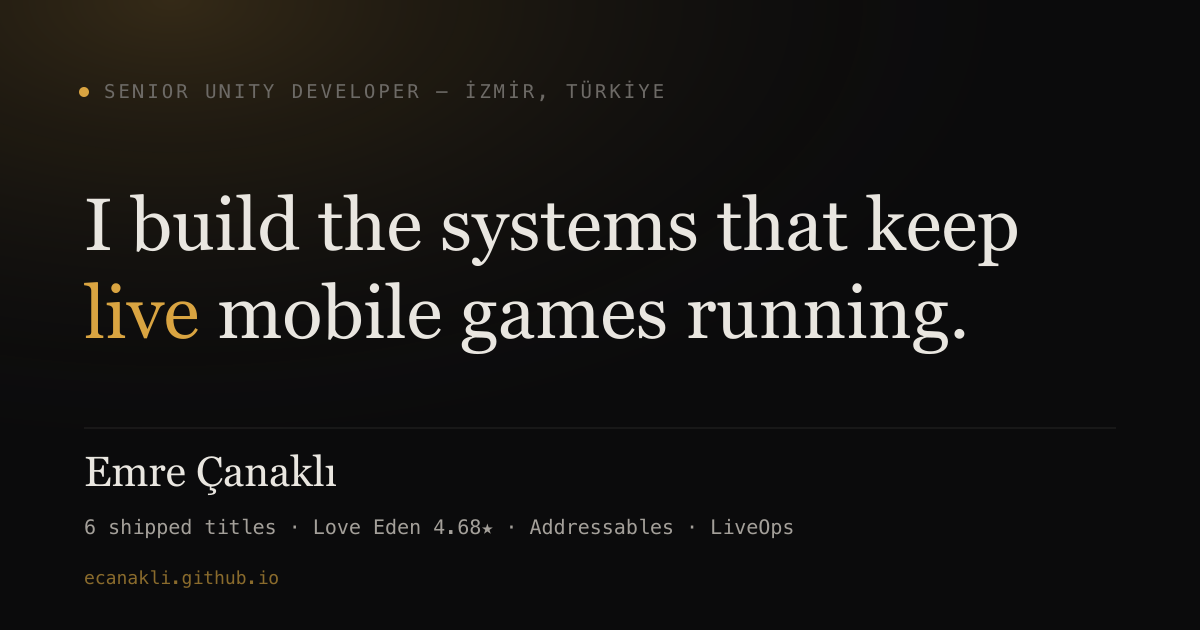
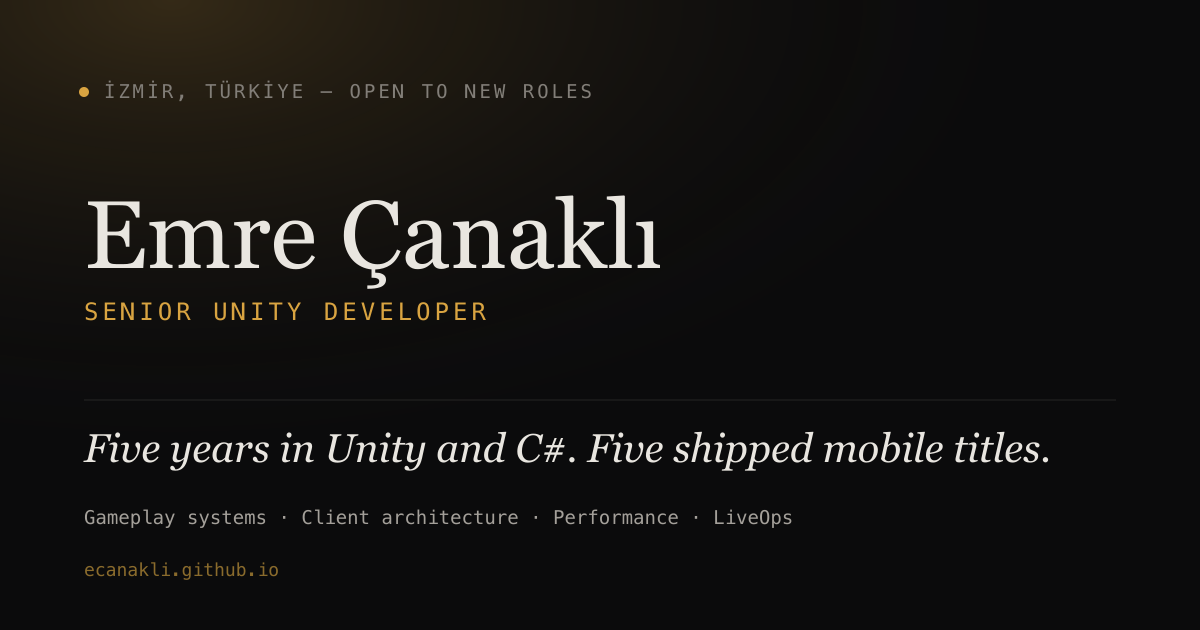
Rewrite the hero, regroup the stack and rebuild the gallery
The hero led with a claim about live-game plumbing, which is the wrong
opening for a portfolio: a reader wants to know who this is and what they
have shipped. Name, role and title count now come first, and the bio reads
the way a developer describes their own work rather than a pitch.

Screenshots wrap into a full-width gallery with every shot visible, so the
set reads as a set without a caption explaining that it can be clicked. A
zoom affordance appears on hover; the "8 screenshots, click to enlarge"
label is gone. Narrow screens keep a snap-scrolling strip.

The stack was one flat wall of chips that buried the optimization work.
It is now grouped, and Performance & Optimization is the largest group:
profiling, draw call and batch reduction, GC, pooling, IL2CPP, build size
and low-end Android tuning.

Shipped-title count drops to five, and the United Tech entry closes at 2026.

diff --git a/src/styles/global.css b/src/styles/global.css
@@ -222,18 +222,28 @@ ul {
   box-shadow: 0 0 0 4px rgba(217, 164, 65, 0.16);
 }
 
-.hero-claim {
+.hero-name {
   font-family: var(--font-display);
   font-weight: 300;
-  font-size: clamp(2.5rem, 6.6vw, 4.8rem);
-  line-height: 1.1;
-  max-width: 19ch;
-  margin-bottom: 1.75rem;
+  font-size: clamp(3rem, 8vw, 5.6rem);
+  line-height: 1;
 }
 
-.hero-claim em {
+.hero-role {
+  font-family: var(--font-mono);
+  font-size: clamp(0.85rem, 1.5vw, 1rem);
+  letter-spacing: 0.14em;
+  text-transform: uppercase;
+  color: var(--accent);
+  margin-top: 1rem;
+}
+
+.hero-tagline {
+  font-family: var(--font-display);
   font-style: italic;
-  font-weight: 400;
+  font-size: clamp(1.15rem, 2.2vw, 1.5rem);
+  color: var(--paper);
+  margin: 1.5rem 0 1.25rem;
 }
 
 .hero-actions {
@@ -317,10 +327,14 @@ ul {
 .game {
   background: var(--ink);
   display: grid;
-  grid-template-columns: 84px minmax(0, 1fr) minmax(0, 340px);
-  gap: clamp(1.25rem, 3vw, 2.5rem);
+  grid-template-columns: 84px minmax(0, 1fr);
+  gap: clamp(1.25rem, 3vw, 2rem);
   padding: clamp(1.75rem, 3.5vw, 2.75rem) 0;
   align-items: start;
+}
+
+.game-body {
+  min-width: 0;
 }
 
 .game-icon {
@@ -328,15 +342,6 @@ ul {
   height: 84px;
   border-radius: 19px;
   border: 1px solid var(--line-strong);
-}
-
-.game-icon-fallback {
-  display: grid;
-  place-items: center;
-  background: var(--ink-raised);
-  font-family: var(--font-display);
-  font-size: 1.9rem;
-  color: var(--paper-faint);
 }
 
 .game-head {
@@ -422,8 +427,9 @@ ul {
 
 .game-links {
   display: flex;
-  gap: 1rem;
+  gap: 1.25rem;
   flex-wrap: wrap;
+  align-items: baseline;
   margin-top: 1.35rem;
   font-size: 0.85rem;
 }
@@ -442,51 +448,84 @@ ul {
   color: var(--paper-faint);
 }
 
-/* Screenshot strip */
+/* Screenshot gallery — every shot visible, so the set reads as a set */
 
-.shots {
+.gallery {
+  grid-column: 1 / -1;
   display: flex;
-  gap: 0.5rem;
-  overflow-x: auto;
-  padding-bottom: 0.5rem;
-  scrollbar-width: thin;
-  scrollbar-color: var(--line-strong) transparent;
+  flex-wrap: wrap;
+  gap: 0.55rem;
+  margin-top: 0.5rem;
 }
 
 .shot {
+  position: relative;
   flex: none;
   padding: 0;
-  border: 0;
-  background: none;
+  border: 1px solid var(--line);
+  background: var(--ink-raised);
   cursor: zoom-in;
-  border-radius: 8px;
+  border-radius: 10px;
+  overflow: hidden;
   line-height: 0;
-  transition: transform 0.22s ease, opacity 0.22s ease;
+  transition: transform 0.22s ease, border-color 0.22s ease;
+}
+
+.shot img {
+  height: 186px;
+  width: auto;
+  transition: transform 0.4s ease, filter 0.22s ease;
+}
+
+.shot-zoom {
+  position: absolute;
+  inset: auto 0.4rem 0.4rem auto;
+  width: 26px;
+  height: 26px;
+  display: grid;
+  place-items: center;
+  border-radius: 50%;
+  background: rgba(11, 11, 12, 0.72);
+  border: 1px solid var(--line-strong);
+  color: var(--paper);
+  opacity: 0;
+  transform: translateY(4px);
+  transition: opacity 0.2s ease, transform 0.2s ease;
 }
 
 .shot:hover {
-  transform: translateY(-3px);
+  border-color: var(--accent-dim);
+  transform: translateY(-4px);
 }
 
-.shots:hover .shot:not(:hover) {
-  opacity: 0.55;
+.shot:hover img {
+  transform: scale(1.06);
+  filter: brightness(1.08);
 }
 
-.shots img {
-  height: 208px;
-  width: auto;
-  border-radius: 8px;
-  border: 1px solid var(--line);
-  flex: none;
+.shot:hover .shot-zoom,
+.shot:focus-visible .shot-zoom {
+  opacity: 1;
+  transform: none;
 }
 
-.shots-hint {
-  font-family: var(--font-mono);
-  font-size: 0.68rem;
-  letter-spacing: 0.08em;
-  text-transform: uppercase;
-  color: var(--paper-faint);
-  margin-top: 0.5rem;
+@media (max-width: 640px) {
+  .gallery {
+    flex-wrap: nowrap;
+    overflow-x: auto;
+    scroll-snap-type: x mandatory;
+    padding-bottom: 0.5rem;
+    scrollbar-width: thin;
+    scrollbar-color: var(--line-strong) transparent;
+  }
+
+  .shot {
+    scroll-snap-align: start;
+  }
+
+  .shot img {
+    height: 200px;
+  }
 }
 
 /* ---- Lightbox ------------------------------------------------------- */
@@ -584,16 +623,12 @@ ul {
 
 .stat-inline {
   font-family: var(--font-mono);
-  font-size: 0.78rem;
-  color: var(--paper-dim);
-  margin-top: 0.6rem;
-  display: flex;
-  gap: 1rem;
-  flex-wrap: wrap;
+  font-size: 0.76rem;
+  color: var(--paper-faint);
 }
 
 .stat-inline b {
-  color: var(--accent);
+  color: var(--paper-dim);
   font-weight: 500;
 }
 
@@ -603,19 +638,15 @@ ul {
   }
 }
 
-@media (max-width: 900px) {
+@media (max-width: 640px) {
   .game {
-    grid-template-columns: 64px minmax(0, 1fr);
-  }
-
-  .game-media {
-    grid-column: 1 / -1;
+    grid-template-columns: 56px minmax(0, 1fr);
   }
 
   .game-icon {
-    width: 64px;
-    height: 64px;
-    border-radius: 15px;
+    width: 56px;
+    height: 56px;
+    border-radius: 13px;
   }
 }
 
@@ -703,15 +734,49 @@ ul {
 
 /* ---- Stack ---------------------------------------------------------- */
 
+.stack {
+  display: grid;
+  gap: 1px;
+  background: var(--line);
+  border: 1px solid var(--line);
+  border-radius: 4px;
+  overflow: hidden;
+}
+
+.stack-group {
+  background: var(--ink);
+  display: grid;
+  grid-template-columns: minmax(0, 13rem) minmax(0, 1fr);
+  gap: clamp(1rem, 3vw, 2rem);
+  padding: clamp(1.1rem, 2.4vw, 1.6rem) clamp(1.1rem, 2.4vw, 1.75rem);
+  align-items: start;
+}
+
+.stack-title {
+  font-family: var(--font-mono);
+  font-size: 0.72rem;
+  letter-spacing: 0.12em;
+  text-transform: uppercase;
+  color: var(--accent);
+  padding-top: 0.35rem;
+}
+
 .stack-list {
   display: flex;
   flex-wrap: wrap;
-  gap: 0.5rem;
+  gap: 0.45rem;
 }
 
 .stack-list .chip {
   font-size: 0.78rem;
   padding: 0.35rem 0.7rem;
+}
+
+@media (max-width: 700px) {
+  .stack-group {
+    grid-template-columns: 1fr;
+    gap: 0.75rem;
+  }
 }
 
 /* ---- Footer --------------------------------------------------------- */

diff --git a/src/data/site.js b/src/data/site.js
@@ -9,21 +9,21 @@ export const profile = {
   cv: "/Emre_Canakli_Senior_Unity_Developer_CV.pdf",
 };
 
-export const claim =
-  "I build the systems that keep live mobile games running.";
+export const tagline = "Five years in Unity and C#. Five shipped mobile titles.";
 
 export const intro =
-  "Five years in, almost entirely C# and Unity. My depth is in live-game architecture — save and " +
-  "cloud data, content delivery, monetization, LiveOps. Around that I've kept enough breadth to " +
-  "follow a problem wherever it leads: backend, analytics, release pipelines. Problems rarely stay " +
-  "in one place.";
+  "I build mobile games in Unity. Five shipped titles on iOS and Android across two studios, " +
+  "working from prototype to launch and staying on them afterwards — gameplay systems, client " +
+  "architecture, UI, content pipelines and performance. Most of my time goes to the parts that " +
+  "decide whether a game survives its first year: how it is structured, how fast it runs on a " +
+  "cheap Android phone, and how it keeps shipping content after release.";
 
-// Only numbers a stranger can verify from a store page, or count from the shelf.
+// Only numbers a stranger can verify from a store page, or count off the shelf.
 // Lines of code and commit counts were here once; they measure typing, not engineering.
 export const metrics = [
+  { value: "5", label: "Shipped titles", note: "iOS and Android, since 2021" },
   { value: "4.68★", label: "App Store rating", note: "Love Eden · 4,246 ratings" },
   { value: "100K+", label: "Google Play installs", note: "Love Eden" },
-  { value: "6", label: "Shipped titles", note: "Five shown · one withdrawn from stores" },
   { value: "25+", label: "Live releases", note: "Rating held through every one" },
   { value: "5 yrs", label: "Unity in production", note: "Two studios, one engine" },
 ];
@@ -36,7 +36,53 @@ export const about = [
 ];
 
 export const stack = [
-  "C#", "Unity 2022 LTS / URP", "StrangeIoC (MVCS)", "Zenject", "Addressables",
-  "Unity CCD", "PlayFab", "Firebase", "UniTask", "Unity IAP", "AppLovin MAX",
-  "Netcode for GameObjects", "Mirror", "DOTween", "Naninovel",
+  {
+    group: "Engine & Language",
+    items: ["C#", "Unity 2022 LTS", "Unity 6", "URP", "Shader Graph", "DOTween", "Cinemachine", "Unity Localization"],
+  },
+  {
+    group: "Performance & Optimization",
+    items: [
+      "Unity Profiler",
+      "Memory Profiler",
+      "Frame Debugger",
+      "Draw call & batch reduction",
+      "SRP Batcher / GPU instancing",
+      "Sprite atlasing",
+      "Canvas & UI rebuild cost",
+      "GC allocation elimination",
+      "Object pooling",
+      "Texture compression (ASTC / ETC2)",
+      "LOD & occlusion culling",
+      "Cold-start optimization",
+      "IL2CPP & managed stripping",
+      "Assembly definitions",
+      "Build size reduction",
+      "Low-end Android tuning",
+    ],
+  },
+  {
+    group: "Architecture",
+    items: ["StrangeIoC (MVCS)", "Zenject", "Dependency injection", "Event-driven systems", "SOLID", "State machines", "Design patterns", "Unit testing"],
+  },
+  {
+    group: "Content Delivery",
+    items: ["Addressables", "Unity Cloud Content Delivery", "Multi-catalog remote content", "Asset-bundle deduplication", "UniTask / async"],
+  },
+  {
+    group: "Backend & LiveOps",
+    items: ["PlayFab", "Firebase", "Azure Functions", "Remote config", "A/B testing", "Cloud save", "REST APIs", "Save migration"],
+  },
+  {
+    group: "Monetization & Growth",
+    items: ["Unity IAP", "RevenueCat", "AppLovin MAX", "AdMob", "IronSource", "Admost", "AppsFlyer", "Amplitude", "OneSignal"],
+  },
+  {
+    group: "Multiplayer",
+    items: ["Netcode for GameObjects", "Mirror", "Client–server synchronization"],
+  },
+  {
+    group: "Pipeline & Tooling",
+    items: ["Custom Editor tooling", "Odin Inspector", "Git / Git LFS", "Jenkins", "Fastlane", "App Store Connect", "Google Play Console"],
+  },
 ];

diff --git a/src/data/games.js b/src/data/games.js
@@ -10,7 +10,7 @@ export const games = [
   {
     ...store["love-eden"],
     studio: "United Tech (Noderno Limited)",
-    years: "2025 — present",
+    years: "2025 — 2026",
     roleTitle: "Senior Unity Developer",
     showRating: true,
     playStore: "https://play.google.com/store/apps/details?id=com.noderno.loveeden",
